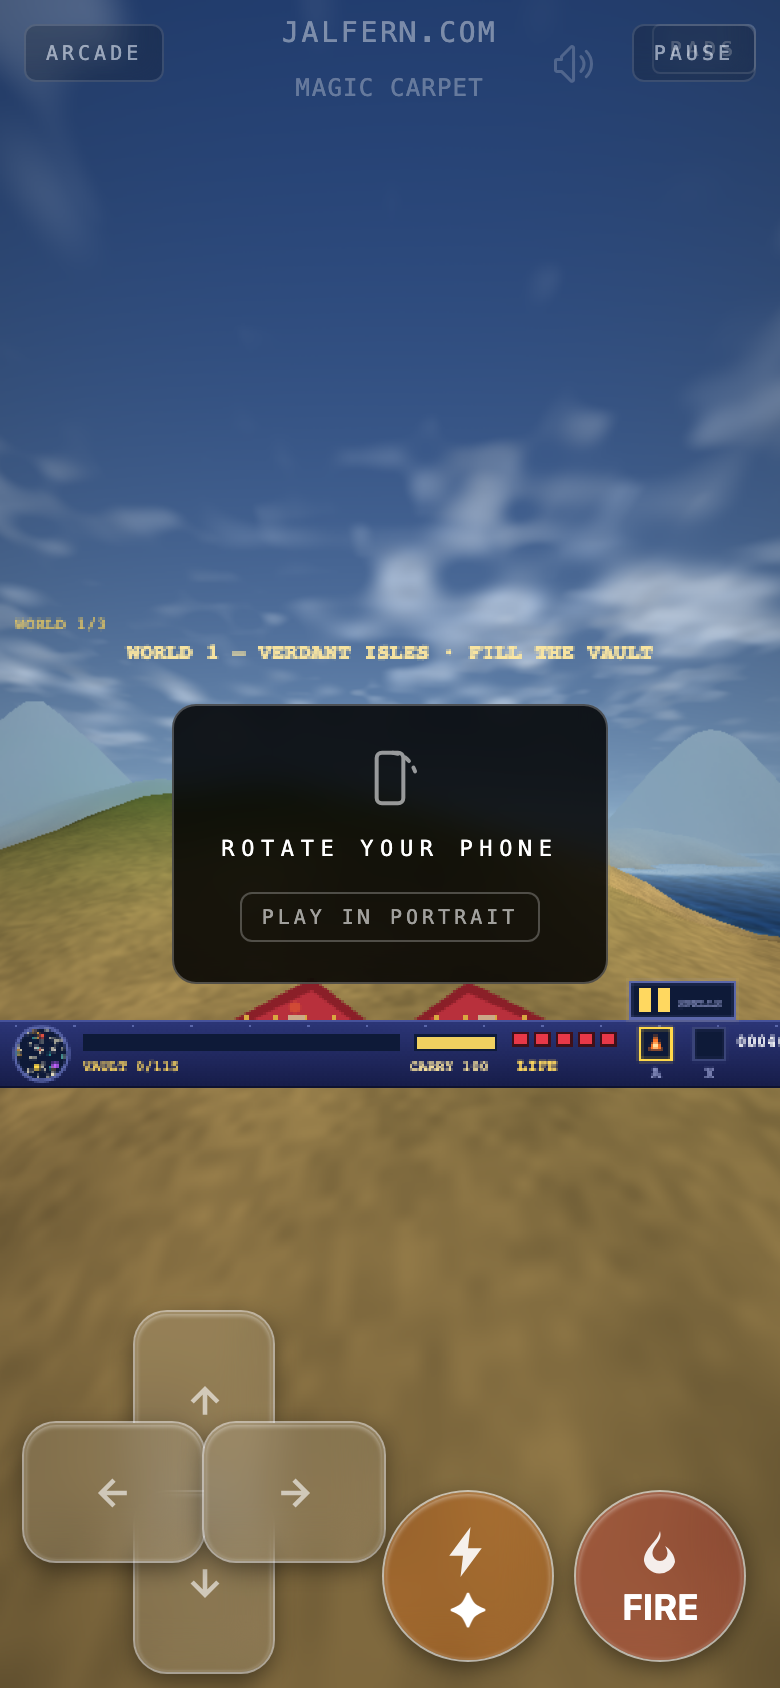
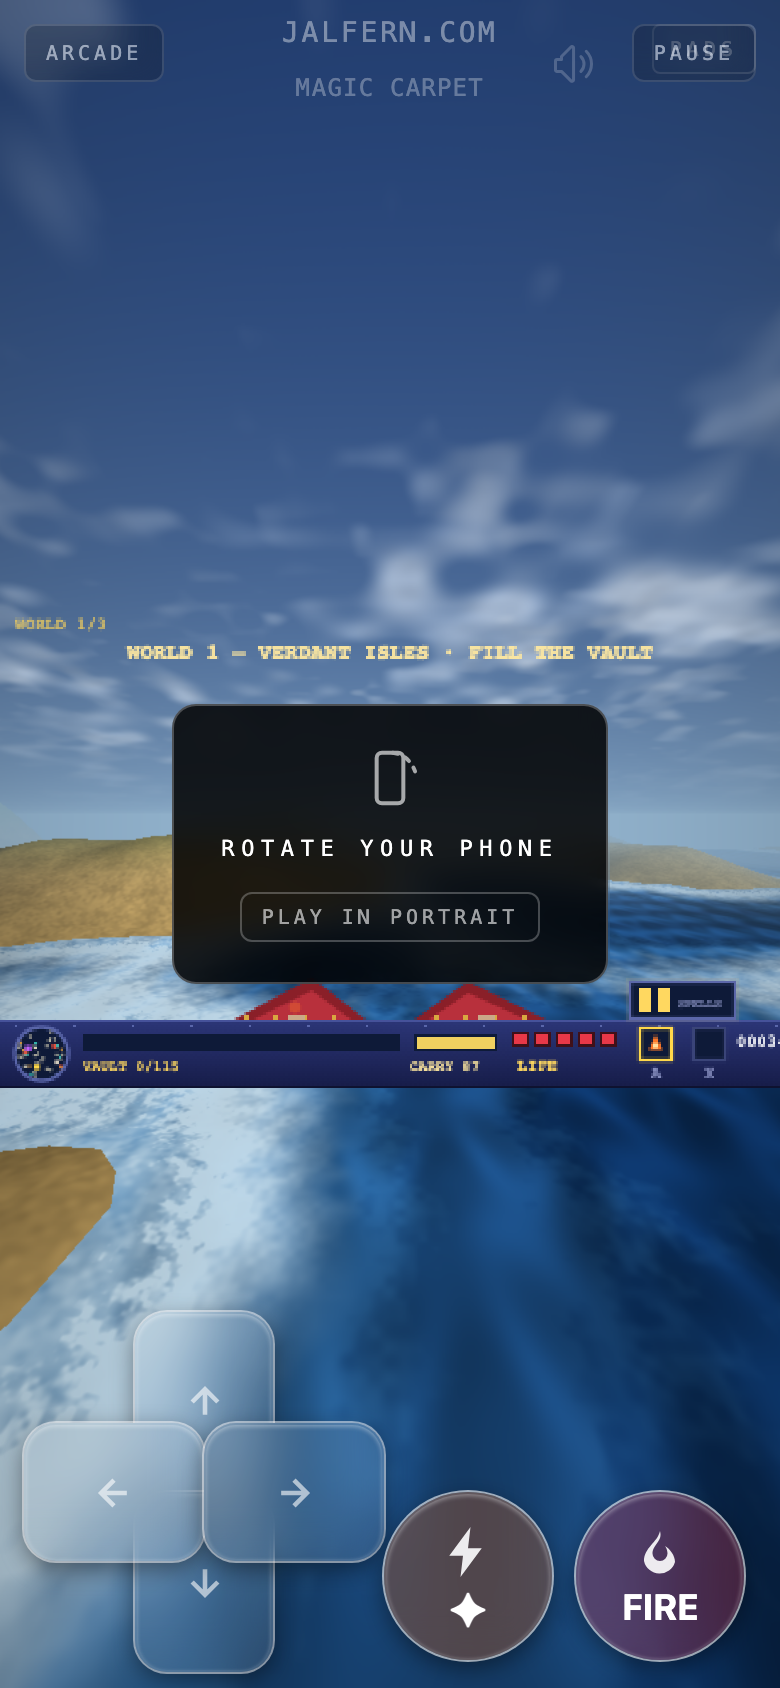
QA #1673: RotateHint card no longer swallows gameplay taps + honest phone cast gate
The #1147 rotate-hint card (pointer-events-auto, centered, z-70) sat over the
middle of every portrait stage: MagicCarpet's letterboxed canvas band runs
through there and its spell tray sits under the card, so real touchscreen taps
attract/tab/slot-11/world vanished. Card is click-through now; only the
PLAY IN PORTRAIT button takes pointers. New hit-test gate in carpetcheck is
the mutant catcher (observed red: centre hit=svg with the old card).

diff --git a/src/components/RotateHint.jsx b/src/components/RotateHint.jsx
@@ -7,7 +7,10 @@ const MIN_ASPECT = 4 / 3
 // instead. Shown only while the device is portrait AND the route hosts a
 // canvas whose intrinsic size is wider than 4:3 (so portrait-native UI and
 // menu screens stay unaffected). Auto-clears on rotation; a stubborn player
-// can dismiss it for this visit.
+// can dismiss it for this visit. The card itself must be CLICK-THROUGH
+// (#1673): a centered fixed card covers the middle of the stage, and MagicCarpet's
+// portrait canvas band — including its spell tray — sits exactly there, so real
+// gameplay taps vanished under the hint. Only the dismiss button takes pointers.
 export default function RotateHint() {
     const [portrait, setPortrait] = useState(() =>
         typeof window !== 'undefined' && window.matchMedia?.('(orientation: portrait)').matches === true)
@@ -37,7 +40,7 @@ export default function RotateHint() {
 
     return (
         <div className="fixed inset-0 z-[70] flex items-center justify-center pointer-events-none">
-            <div className="pointer-events-auto flex flex-col items-center gap-3 rounded-xl border border-white/25 bg-black/85 px-6 py-5 text-center backdrop-blur-sm">
+            <div className="pointer-events-none flex flex-col items-center gap-3 rounded-xl border border-white/25 bg-black/85 px-6 py-5 text-center backdrop-blur-sm">
                 <svg viewBox="0 0 24 24" className="w-8 h-8 text-white animate-pulse" fill="none" stroke="currentColor" strokeWidth={1.5}>
                     <rect x="7" y="2.5" width="10" height="19" rx="2" />
                     <path d="M13 2.5c4 .4 7 3.2 8.4 7" strokeLinecap="round" strokeDasharray="2 3" />
@@ -46,7 +49,7 @@ export default function RotateHint() {
                 <button
                     data-nav="rotate-dismiss"
                     onClick={() => setDismissed(true)}
-                    className="font-mono text-[10px] tracking-[0.2em] text-white/60 border border-white/25 rounded-md px-2.5 py-1 hover:opacity-100"
+                    className="pointer-events-auto font-mono text-[10px] tracking-[0.2em] text-white/60 border border-white/25 rounded-md px-2.5 py-1 hover:opacity-100"
                 >
                     PLAY IN PORTRAIT
                 </button>

diff --git a/src/games/MagicCarpet/index.jsx b/src/games/MagicCarpet/index.jsx
@@ -844,6 +844,9 @@ const MagicCarpetGame = () => {
                 // learned without chasing grimoire RNG, and HUD->CSS px mapping for
                 // real touchscreen taps at 390x844.
                 arm: (id) => { if (!gs.learned.includes(id)) gs.learned.push(id); gs.mana = 100; gs.coolL = 0; gs.coolR = 0; return [...gs.learned] },
+                // learn ≠ equip (sim #1612): gates that cast after reset must equip
+                // explicitly, exactly as the tray tap or Minus key would.
+                equipL: (id) => { if (gs.learned.includes(id)) gs.hands.L = id; return gs.hands.L },
                 hudRect: () => { const r = canvas.getBoundingClientRect(); return { left: r.left, top: r.top, w: r.width, h: r.height } },
                 smokePuffs: () => (renderer ? renderer.smokeCount() : -1),
                 crumbles: () => (renderer ? renderer.ashCount() : -1),
